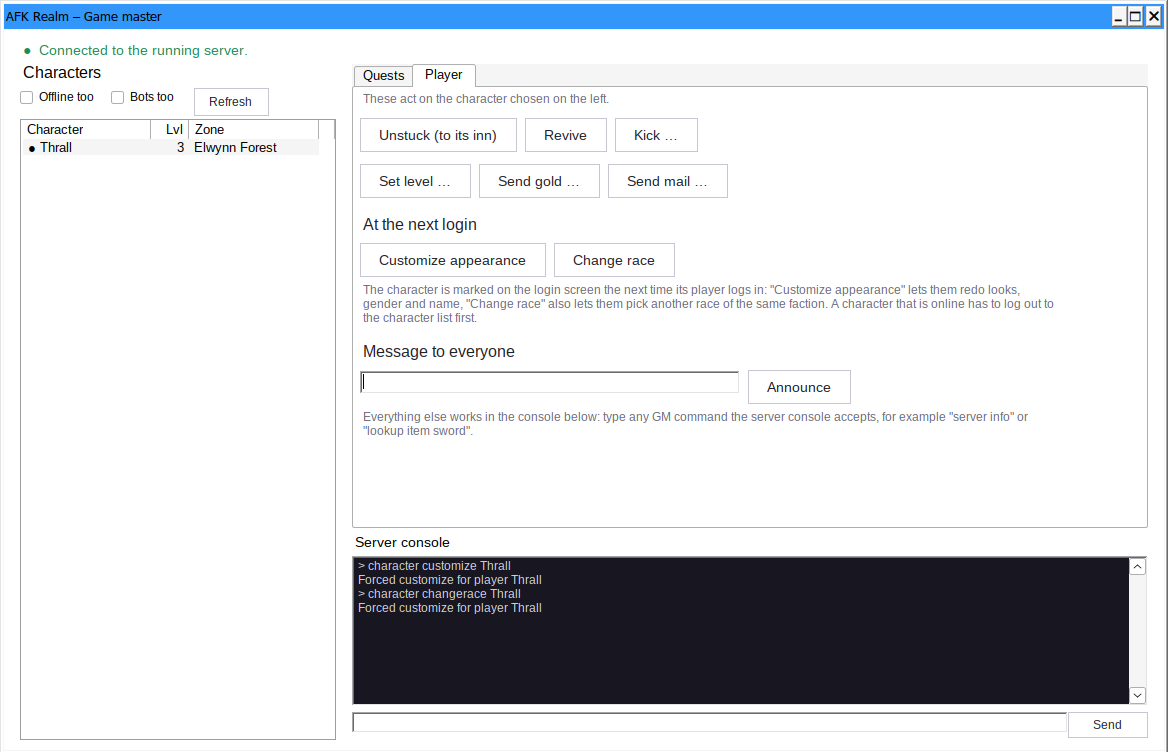
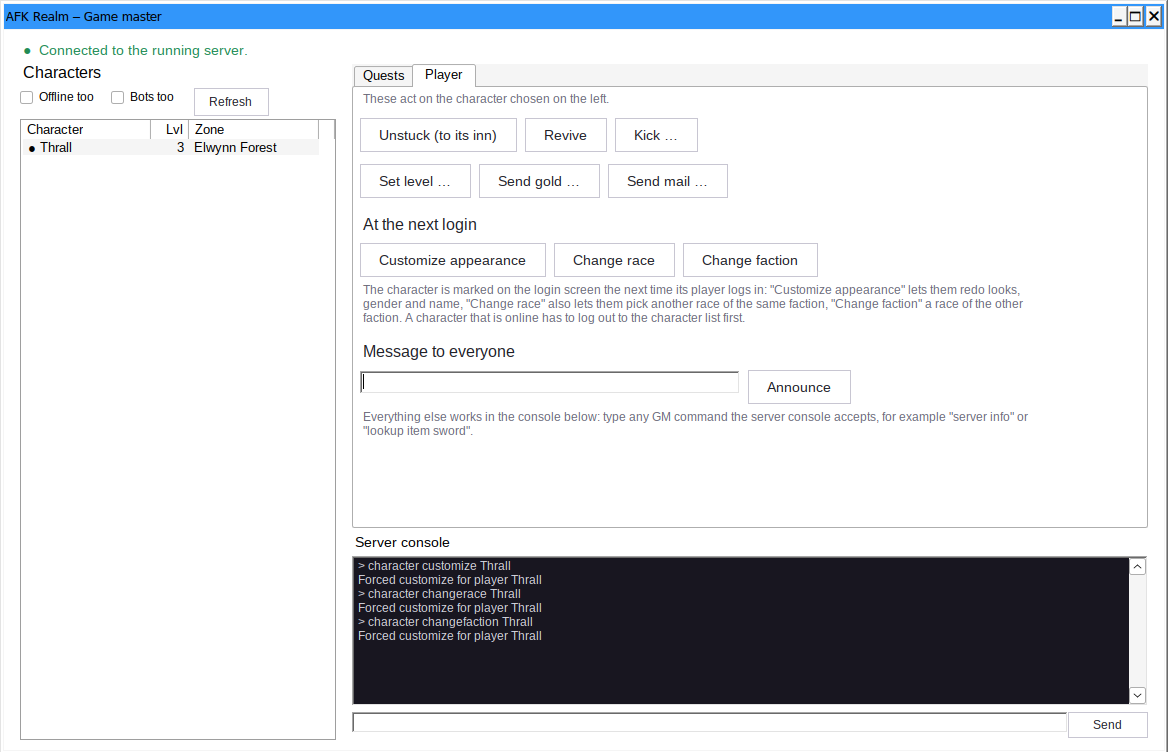
Game master tools: change faction at the next login

diff --git a/src/GameMasterDialog.cs b/src/GameMasterDialog.cs
@@ -122,8 +122,9 @@ namespace CoAInstaller
             var p4 = Ui.Row();
             p4.Controls.Add(Action("Customize appearance", () => Player("character customize {0}", null)));
             p4.Controls.Add(Action("Change race", () => Player("character changerace {0}", null)));
+            p4.Controls.Add(Action("Change faction", () => Player("character changefaction {0}", null)));
             player.Controls.Add(p4);
-            player.Controls.Add(Ui.Hint("The character is marked on the login screen the next time its player logs in: \"Customize appearance\" lets them redo looks, gender and name, \"Change race\" also lets them pick another race of the same faction. A character that is online has to log out to the character list first.", 700));
+            player.Controls.Add(Ui.Hint("The character is marked on the login screen the next time its player logs in: \"Customize appearance\" lets them redo looks, gender and name, \"Change race\" also lets them pick another race of the same faction, \"Change faction\" a race of the other faction. A character that is online has to log out to the character list first.", 700));
             player.Controls.Add(Ui.Heading("Message to everyone"));
             var p3 = Ui.Row(); p3.Controls.Add(announce);
             p3.Controls.Add(Action("Announce", () => { string t = Clean(announce.Text); if (t.Length > 0) { Send("announce " + t, null); announce.Text = ""; } }));

diff --git a/RELEASE_NOTES.md b/RELEASE_NOTES.md
@@ -6,7 +6,7 @@ Build, run and tweak your own Conquest of Azeroth server (AzerothCore fork with 
 
 - **Game master tools** (*Server management → Game master tools*): AFK Realm now talks to the running server. Starting the server through AFK Realm sets up the connection automatically (only reachable from your own PC).
 - **Quest helper**: type an NPC name, a quest title or a quest id and see the matching quests with who gives them and who takes them – read from your server's own database, so it fits CoA's changed world. Or let AFK Realm list the open quests around a character. Then *Give quest*, *Complete*, *Reward*, *Remove* or *Check* with one click, also for characters that are offline. Handy when a quest giver cannot be clicked or a quest item does not drop.
-- **Player actions**: unstuck (to the inn), revive, kick, set level, send gold or a mail, let a player customize the character or change its race at the next login, and an announcement to everyone.
+- **Player actions**: unstuck (to the inn), revive, kick, set level, send gold or a mail, let a player customize the character or change its race or faction at the next login, and an announcement to everyone.
 - **Server console**: every other GM command can be typed right in the window; the server's answer is shown below.
 - **No more console windows**: authserver and worldserver now run in the background. *Open server consoles* shows both in one window, one above the other: what they print, and a command line for GM commands to the worldserver. The classic windows can be switched back on with one tick.
 - **User guide**: [docs/MANUAL.md](docs/MANUAL.md) explains every window – what it is for and how to use it.

diff --git a/CHANGELOG.md b/CHANGELOG.md
@@ -4,7 +4,7 @@
 
 - Game master tools: connection to the running server (SOAP, this PC only, own administrator account)
 - Quest helper: find quests by NPC name, quest title or id, or list the open quests around a character; give, complete, reward, remove and check them with one click, for offline characters too
-- Player actions: unstuck, revive, kick, set level, send gold and mail, customize appearance or change race at the next login, server-wide announcement
+- Player actions: unstuck, revive, kick, set level, send gold and mail, customize appearance, change race or change faction at the next login, server-wide announcement
 - Server console in the window for every other GM command, with the server's answer
 - Authserver and worldserver run without console windows; "Open server consoles" shows both in one window, with a command line for the worldserver (the classic windows can be switched back on)
 - User guide (docs/MANUAL.md) that explains every window

diff --git a/docs/MANUAL.md b/docs/MANUAL.md
@@ -180,6 +180,7 @@ The server's answer appears in the console at the bottom.
 | **Send mail …** | Sends an in-game mail with a subject and a text. |
 | **Customize appearance** | At the next login the player can redo the character's looks, gender and name on the login screen. |
 | **Change race** | At the next login the player can pick another race of the same faction (and redo the looks and the name). |
+| **Change faction** | At the next login the player can move the character to the other faction and pick one of its races. |
 | **Announce** | Shows a message to everyone who is online, for example before a restart. |
 
 ### Server console
